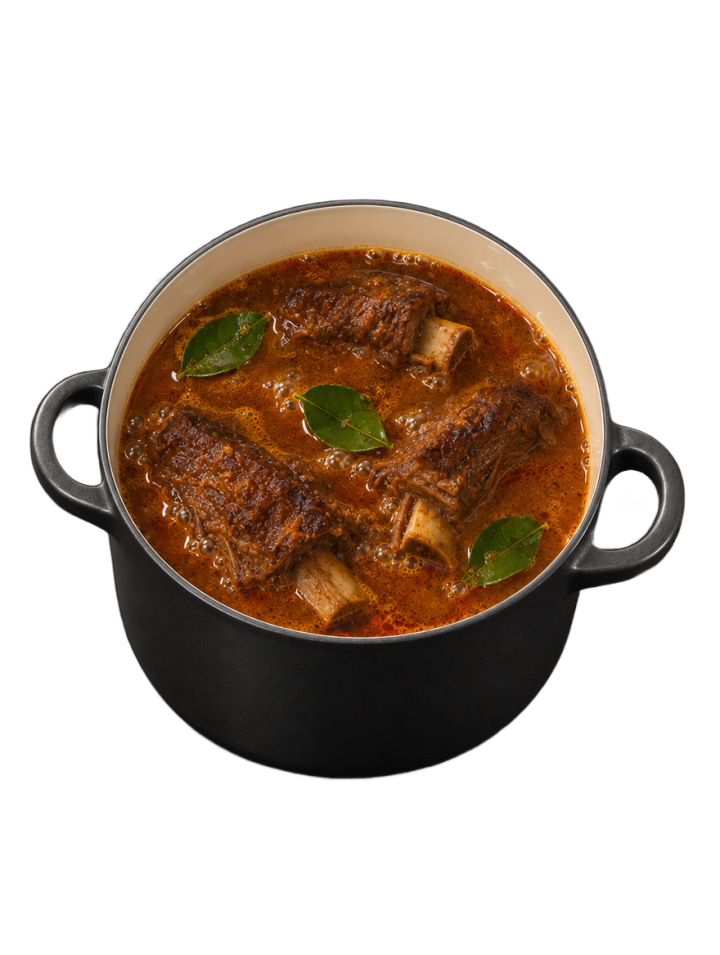
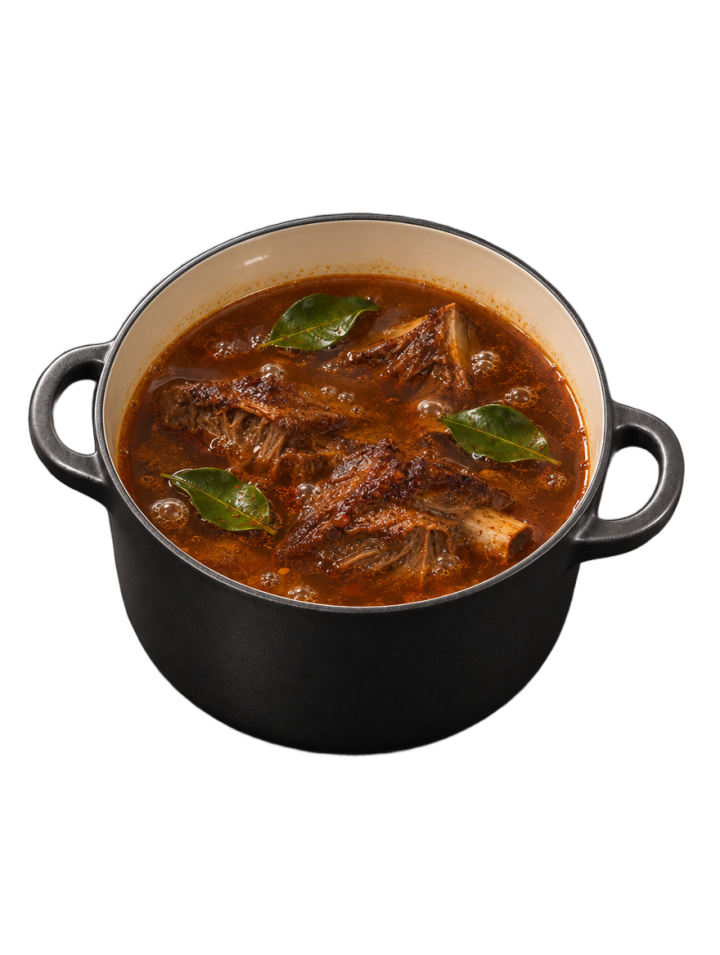
Oven steps without the fade animation; crepes laid in a circle in the pan; taller casserole and cleaner aromatics frame for the short ribs

Changed region(s): [[0.0306, 0.1822, 0.9778, 0.6984], [0.1833, 0.6377, 0.7944, 0.8199]]

diff --git a/src/data/swipe.ts b/src/data/swipe.ts
@@ -807,7 +807,7 @@ const eggplanttofu: SwipeRecipe = {
   frames: {
     ing: { src: require('../../assets/recipes/eggplanttofu/ing.png') },
     tray: { src: require('../../assets/recipes/eggplanttofu/tray.png') },
-    oven: { src: require('../../assets/recipes/eggplanttofu/oven.png'), glow: true },
+    oven: { src: require('../../assets/recipes/eggplanttofu/oven.png') },
     roasted: { src: require('../../assets/recipes/eggplanttofu/roasted.png'), heat: 0.4 },
     tofu: { src: require('../../assets/recipes/eggplanttofu/tofu.png'), heat: 0.8 },
     aroma: { src: require('../../assets/recipes/eggplanttofu/aroma.png'), heat: 0.7 },
@@ -840,7 +840,6 @@ const eggplanttofu: SwipeRecipe = {
         d: "**Готово, коли** шкірка зморщилась, а баклажан повністю осів і м'який.",
         tip: "Поки баклажани печуться, встигнеш зробити начинку.",
         timer: 3000,
-        dur: 5000,
       },
       {
         f: 'roasted',
@@ -1106,7 +1105,7 @@ const crepes: SwipeRecipe = {
       {
         f: 'pan3',
         t: "Прогрій млинці в соусі",
-        p: "Склади кожен млинець вчетверо трикутником, виклади в соус і полий ним зверху. 1–2 хвилини.",
+        p: "Склади кожен млинець вчетверо трикутником і виклади в соус по колу, кінчиками до центру, щоб вийшло коло на всю сковорідку. Полий соусом зверху, 1–2 хвилини.",
         d: "**Готово, коли** млинці пропитались і блищать.",
         tip: "Не тримай довше: млинці стануть надто м'якими.",
         timer: 90,
@@ -1177,7 +1176,7 @@ const shortribs: SwipeRecipe = {
     sear: { src: require('../../assets/recipes/shortribs/sear.png'), heat: 0.9 },
     aroma: { src: require('../../assets/recipes/shortribs/aroma.png'), heat: 0.7 },
     braise: { src: require('../../assets/recipes/shortribs/braise.png'), heat: 0.5 },
-    oven: { src: require('../../assets/recipes/shortribs/oven.png'), glow: true },
+    oven: { src: require('../../assets/recipes/shortribs/oven.png') },
     rice: { src: require('../../assets/recipes/shortribs/rice.png'), heat: 0.4 },
     onion: { src: require('../../assets/recipes/shortribs/onion.png') },
     broth: { src: require('../../assets/recipes/shortribs/broth.png'), heat: 0.5 },
@@ -1226,7 +1225,6 @@ const shortribs: SwipeRecipe = {
         d: "**Готово, коли** кістка легко виходить, а м'ясо ще тримає форму.",
         tip: "Повільне томління розм'якшує сполучну тканину, і м'ясо стає ніжним.",
         timer: 10800,
-        dur: 5000,
       },
       {
         f: 'rice',
